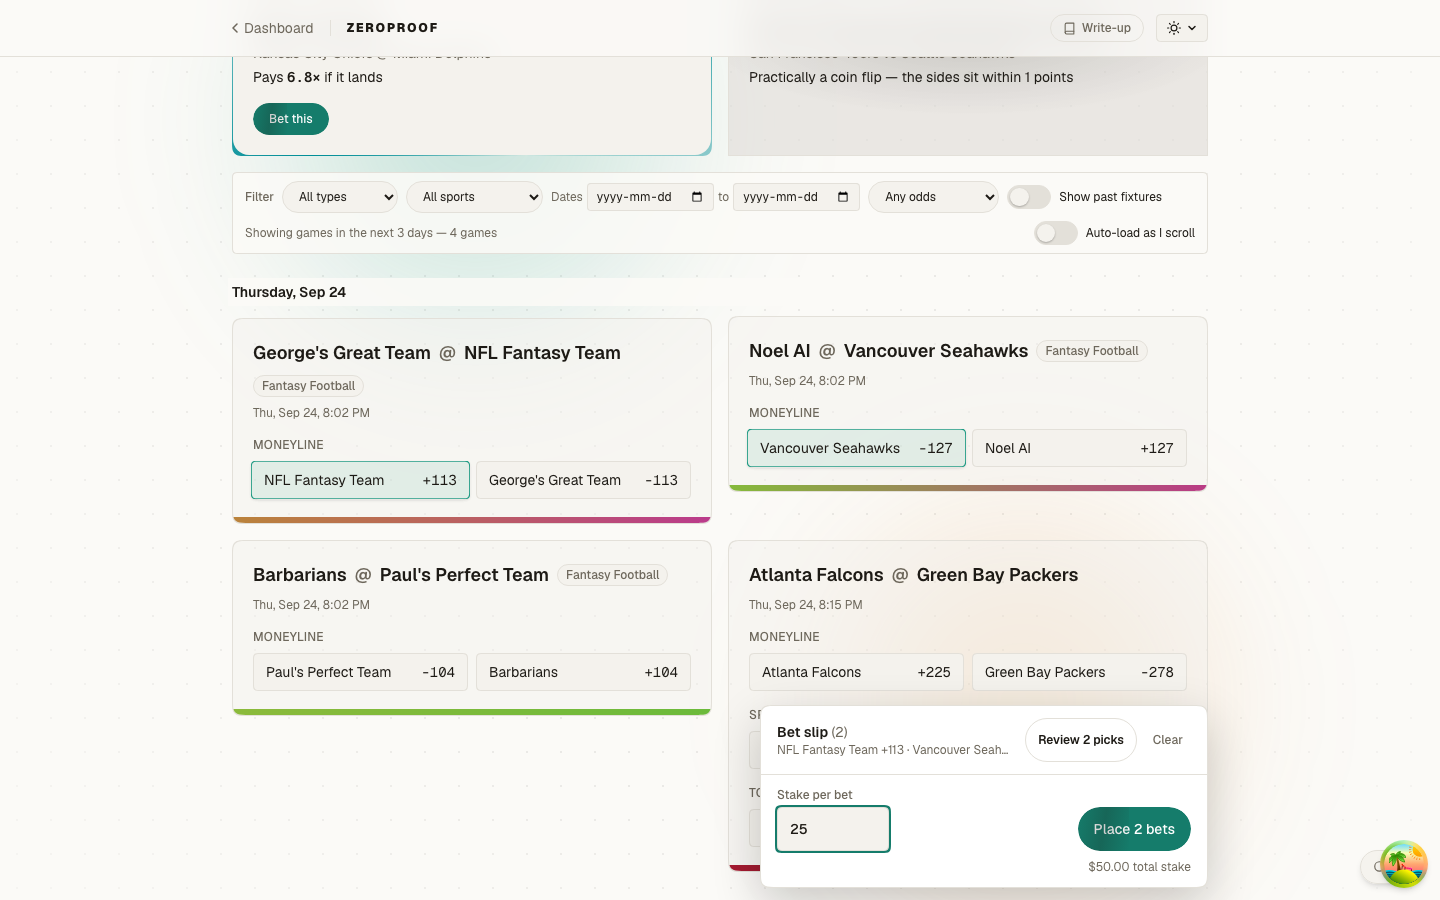
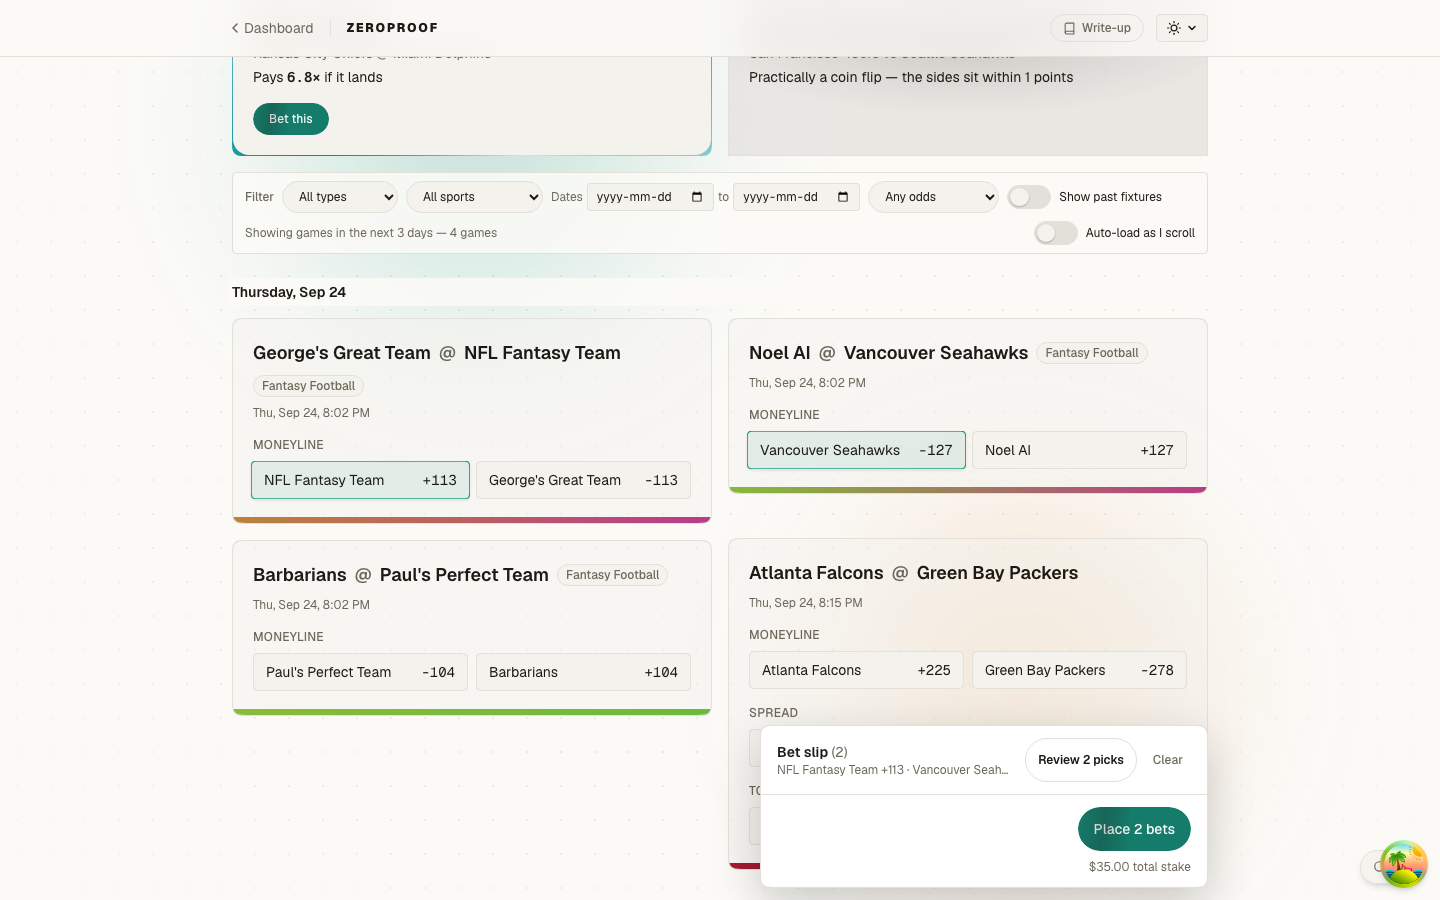
Allow separate stakes for ZeroProof picks

Changed region(s): [[0.5312, 0.6222, 0.8438, 0.9644], [0.5, 0.3733, 0.8438, 0.56], [0.6875, 0.7156, 0.75, 0.7467]]

diff --git a/src/app/zeroproof/ZeroProofContent.tsx b/src/app/zeroproof/ZeroProofContent.tsx
@@ -1122,7 +1122,7 @@ function BetSlip({
     refetchInterval: (query) =>
       query.state.data && !query.state.data.signedOut ? 30_000 : false,
   });
-  const [stake, setStake] = useState("");
+  const [stakes, setStakes] = useState<Record<string, string>>({});
   const [walletId, setWalletId] = useState("");
   const [reviewOpen, setReviewOpen] = useState(false);
 
@@ -1202,11 +1202,19 @@ function BetSlip({
     },
   });
 
-  // One clearly labeled amount applies to every pick in this slip.
-  const stakeCents = centsFromDollars(stake);
-  const staked = stakeCents === null
-    ? []
-    : slip.map((leg) => ({ leg, cents: stakeCents }));
+  const staked = slip
+    .map((leg) => ({ leg, cents: centsFromDollars(stakes[betLegKey(leg)] ?? "") }))
+    .filter((item): item is { leg: SelectedBet; cents: number } => item.cents !== null);
+  const allStaked = staked.length === slip.length;
+  const totalStakeCents = staked.reduce((total, item) => total + item.cents, 0);
+  const removeLeg = (legKey: string) => {
+    onRemove(legKey);
+    setStakes((current) => {
+      const next = { ...current };
+      delete next[legKey];
+      return next;
+    });
+  };
 
   // Place every staked leg together, dropping each from the slip as it lands.
   // Stops at the first failure (its error toasts) so the rest stay to retry.
@@ -1214,7 +1222,7 @@ function BetSlip({
     for (const { leg, cents } of staked) {
       try {
         await placeLeg.mutateAsync({ leg, stakeCents: cents });
-        onRemove(betLegKey(leg));
+        removeLeg(betLegKey(leg));
       } catch {
         break;
       }
@@ -1222,6 +1230,9 @@ function BetSlip({
   };
 
   const placeLabel = slip.length > 1 ? `Place ${slip.length} bets` : "Place bet";
+  const reviewLabel = wallets.length > 0 && !allStaked
+    ? `Set ${slip.length} stakes`
+    : `Review ${slip.length} picks`;
 
   return (
     // Docked to the bottom of the viewport so the slip stays in view while you
@@ -1244,7 +1255,7 @@ function BetSlip({
                 onClick={() => setReviewOpen((open) => !open)}
                 className="min-h-11 rounded-full border border-border px-3 text-xs font-semibold text-foreground hover:bg-surface focus-visible:outline-none focus-visible:ring-2 focus-visible:ring-primary-600"
               >
-                {reviewOpen ? "Hide picks" : `Review ${slip.length} picks`}
+                {reviewOpen ? "Hide picks" : reviewLabel}
               </button>
             )}
             <button
@@ -1259,16 +1270,29 @@ function BetSlip({
 
           <ul id="zeroproof-slip-picks" aria-label="Selected picks" hidden={!reviewOpen && slip.length > 1} className="max-h-[35dvh] divide-y divide-border overflow-y-auto border-t border-border px-4">
             {slip.map((leg) => (
-              <li key={betLegKey(leg)} className="flex items-center justify-between gap-3 py-2">
+              <li key={betLegKey(leg)} className="flex items-center justify-between gap-2 py-2">
                 <div className="min-w-0 text-xs">
                   <p className="truncate text-muted">{leg.eventLabel}</p>
                   <p className="truncate font-semibold text-foreground">
                     {leg.selection} {formatPoint(leg.point)} <span className="font-mono tabular-nums">{formatAmerican(leg.price)}</span>
                   </p>
                 </div>
+                {wallets.length > 0 && (
+                  <label className="shrink-0 text-[11px] font-medium text-muted">
+                    <span aria-hidden="true">Stake</span>
+                    <span className="sr-only">Stake for {leg.selection}</span>
+                    <input
+                      inputMode="decimal"
+                      value={stakes[betLegKey(leg)] ?? ""}
+                      onChange={(event) => setStakes((current) => ({ ...current, [betLegKey(leg)]: event.target.value }))}
+                      placeholder="$0.00"
+                      className="mt-1 block h-11 w-20 rounded-lg border border-border bg-surface px-2 text-sm text-foreground focus-visible:outline-none focus-visible:ring-2 focus-visible:ring-primary-600"
+                    />
+                  </label>
+                )}
                 <button
                   type="button"
-                  onClick={() => onRemove(betLegKey(leg))}
+                  onClick={() => removeLeg(betLegKey(leg))}
                   aria-label={`Remove ${leg.selection} from slip`}
                   className="flex h-11 w-11 shrink-0 items-center justify-center rounded-full text-muted hover:bg-surface hover:text-foreground focus-visible:outline-none focus-visible:ring-2 focus-visible:ring-primary-600"
                 >
@@ -1292,16 +1316,6 @@ function BetSlip({
           </div>
         ) : (
           <div className="flex flex-wrap items-end gap-2 border-t border-border px-4 py-3">
-            <label className="text-xs font-medium text-muted">
-              Stake per bet
-              <input
-                inputMode="decimal"
-                value={stake}
-                onChange={(e) => setStake(e.target.value)}
-                placeholder="$0.00"
-                className="mt-1 block h-11 w-28 rounded-lg border border-border bg-surface px-3 text-sm text-foreground focus-visible:outline-none focus-visible:ring-2 focus-visible:ring-primary-600"
-              />
-            </label>
             {wallets.length > 1 && (
               <label className="text-xs text-muted">
                 Wallet
@@ -1322,15 +1336,17 @@ function BetSlip({
               <button
                 type="button"
                 onClick={placeAll}
-                disabled={staked.length === 0 || placeLeg.isPending}
+                disabled={!allStaked || placeLeg.isPending}
                 className="inline-flex h-11 items-center rounded-full bg-primary-600 px-4 text-sm font-medium text-white transition-colors hover:bg-primary-700 focus-visible:ring-2 focus-visible:ring-primary-600 focus-visible:outline-none disabled:opacity-60"
               >
                 {placeLeg.isPending ? "Placing…" : placeLabel}
               </button>
             </ShineSweep>
-            {stakeCents !== null && slip.length > 1 && (
+            {slip.length > 1 && (
               <p className="w-full text-right text-xs text-muted">
-                {formatCents(stakeCents * slip.length)} total stake
+                {allStaked
+                  ? `${formatCents(totalStakeCents)} total stake`
+                  : `${staked.length} of ${slip.length} stakes set`}
               </p>
             )}
           </div>

diff --git a/src/app/zeroproof/ZeroProofContent.test.tsx b/src/app/zeroproof/ZeroProofContent.test.tsx
@@ -907,11 +907,11 @@ describe("ZeroProofContent — bet slip", () => {
     const slip = await screen.findByRole("region", { name: /bet slip/i });
 
     expect(await axe(container)).toHaveNoViolations();
-    fireEvent.click(within(slip).getByRole("button", { name: /review 2 picks/i }));
+    fireEvent.click(within(slip).getByRole("button", { name: /set 2 stakes/i }));
     expect(await axe(container)).toHaveNoViolations();
   });
 
-  it("uses one stake per bet and one action to place every selected pick", async () => {
+  it("places different stakes for two picks with one action", async () => {
     const placed: Record<string, unknown>[] = [];
     server.use(
       http.post("/api/zeroproof/bets", async ({ request }) => {
@@ -920,21 +920,29 @@ describe("ZeroProofContent — bet slip", () => {
       }),
     );
     renderPage(() => HttpResponse.json(PROFILE));
-    // Two picks off the same board card are two independent legs on the slip.
     fireEvent.click(await screen.findByRole("button", { name: /Celtics/ }));
     fireEvent.click(await screen.findByRole("button", { name: /Lakers/ }));
     const slip = await screen.findByRole("region", { name: /bet slip/i });
-    expect(within(slip).getByRole("button", { name: /review 2 picks/i })).toHaveAttribute("aria-expanded", "false");
-    expect(within(slip).getAllByRole("textbox", { name: /stake per bet/i })).toHaveLength(1);
-    fireEvent.change(within(slip).getByRole("textbox", { name: /stake per bet/i }), {
+    const place = within(slip).getByRole("button", { name: /place 2 bets/i });
+    expect(place).toBeDisabled();
+    fireEvent.click(within(slip).getByRole("button", { name: /set 2 stakes/i }));
+    fireEvent.change(within(slip).getByRole("textbox", { name: /stake for Celtics/i }), {
       target: { value: "25" },
     });
-    expect(within(slip).getByText("$50.00 total stake")).toBeInTheDocument();
-    expect(within(slip).getAllByRole("button", { name: /place 2 bets/i })).toHaveLength(1);
-    fireEvent.click(within(slip).getByRole("button", { name: /place 2 bets/i }));
+    expect(place).toBeDisabled();
+    fireEvent.change(within(slip).getByRole("textbox", { name: /stake for Lakers/i }), {
+      target: { value: "10" },
+    });
+    expect(within(slip).getByText("$35.00 total stake")).toBeInTheDocument();
+    fireEvent.click(within(slip).getByRole("button", { name: /hide picks/i }));
+    expect(within(slip).queryByRole("list", { name: /selected picks/i })).toBeNull();
+    expect(place).toBeEnabled();
+    fireEvent.click(place);
     await waitFor(() => expect(placed).toHaveLength(2));
-    expect(placed.map((p) => p.selection).sort()).toEqual(["Celtics", "Lakers"]);
-    expect(placed.map((p) => p.stakeCents)).toEqual([2500, 2500]);
+    expect(placed).toEqual([
+      expect.objectContaining({ selection: "Celtics", stakeCents: 2500 }),
+      expect.objectContaining({ selection: "Lakers", stakeCents: 1000 }),
+    ]);
   });
 
   it("places a bet from a signed-in wallet with the picked outcome and stake", async () => {

diff --git a/CHANGELOG.md b/CHANGELOG.md
@@ -2,7 +2,7 @@
 
 ## 2026-09-22 - version 7.9.1
 
-- Made the ZeroProof bet slip opaque and narrower so the board remains readable while picks are docked. Multiple picks now collapse behind a review control; one stake amount applies to each pick, the total stake is shown, and a single button places the batch. On phones the dock leaves room for the floating page control.
+- Made the ZeroProof bet slip opaque and narrower so the board remains readable while picks are docked. Multiple picks now collapse behind a review control; each pick has its own stake amount, the combined stake is shown, and a single button places the batch. On phones the dock leaves room for the floating page control.
 
 ## 2026-09-22 - version 7.9.0
 
